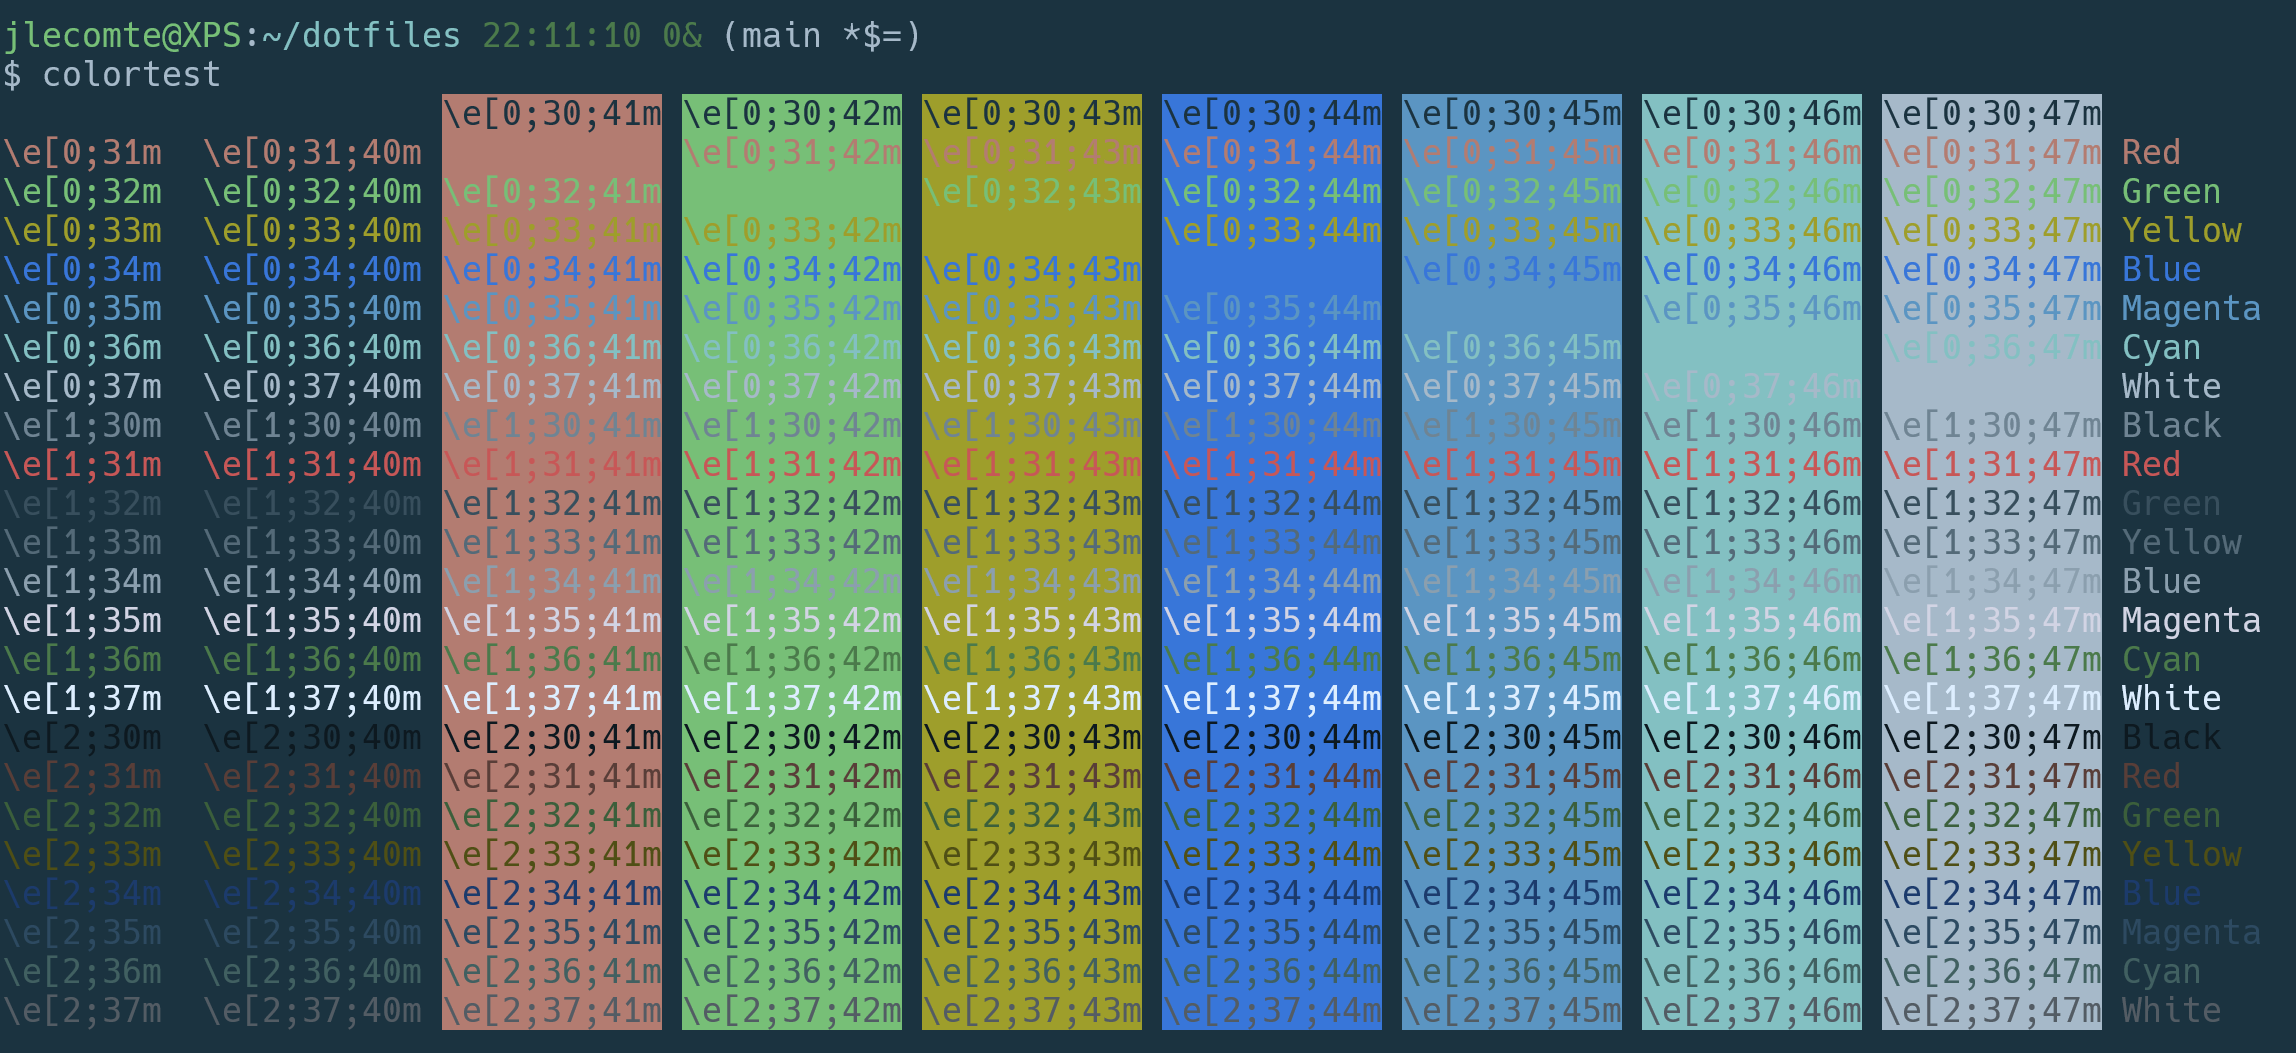
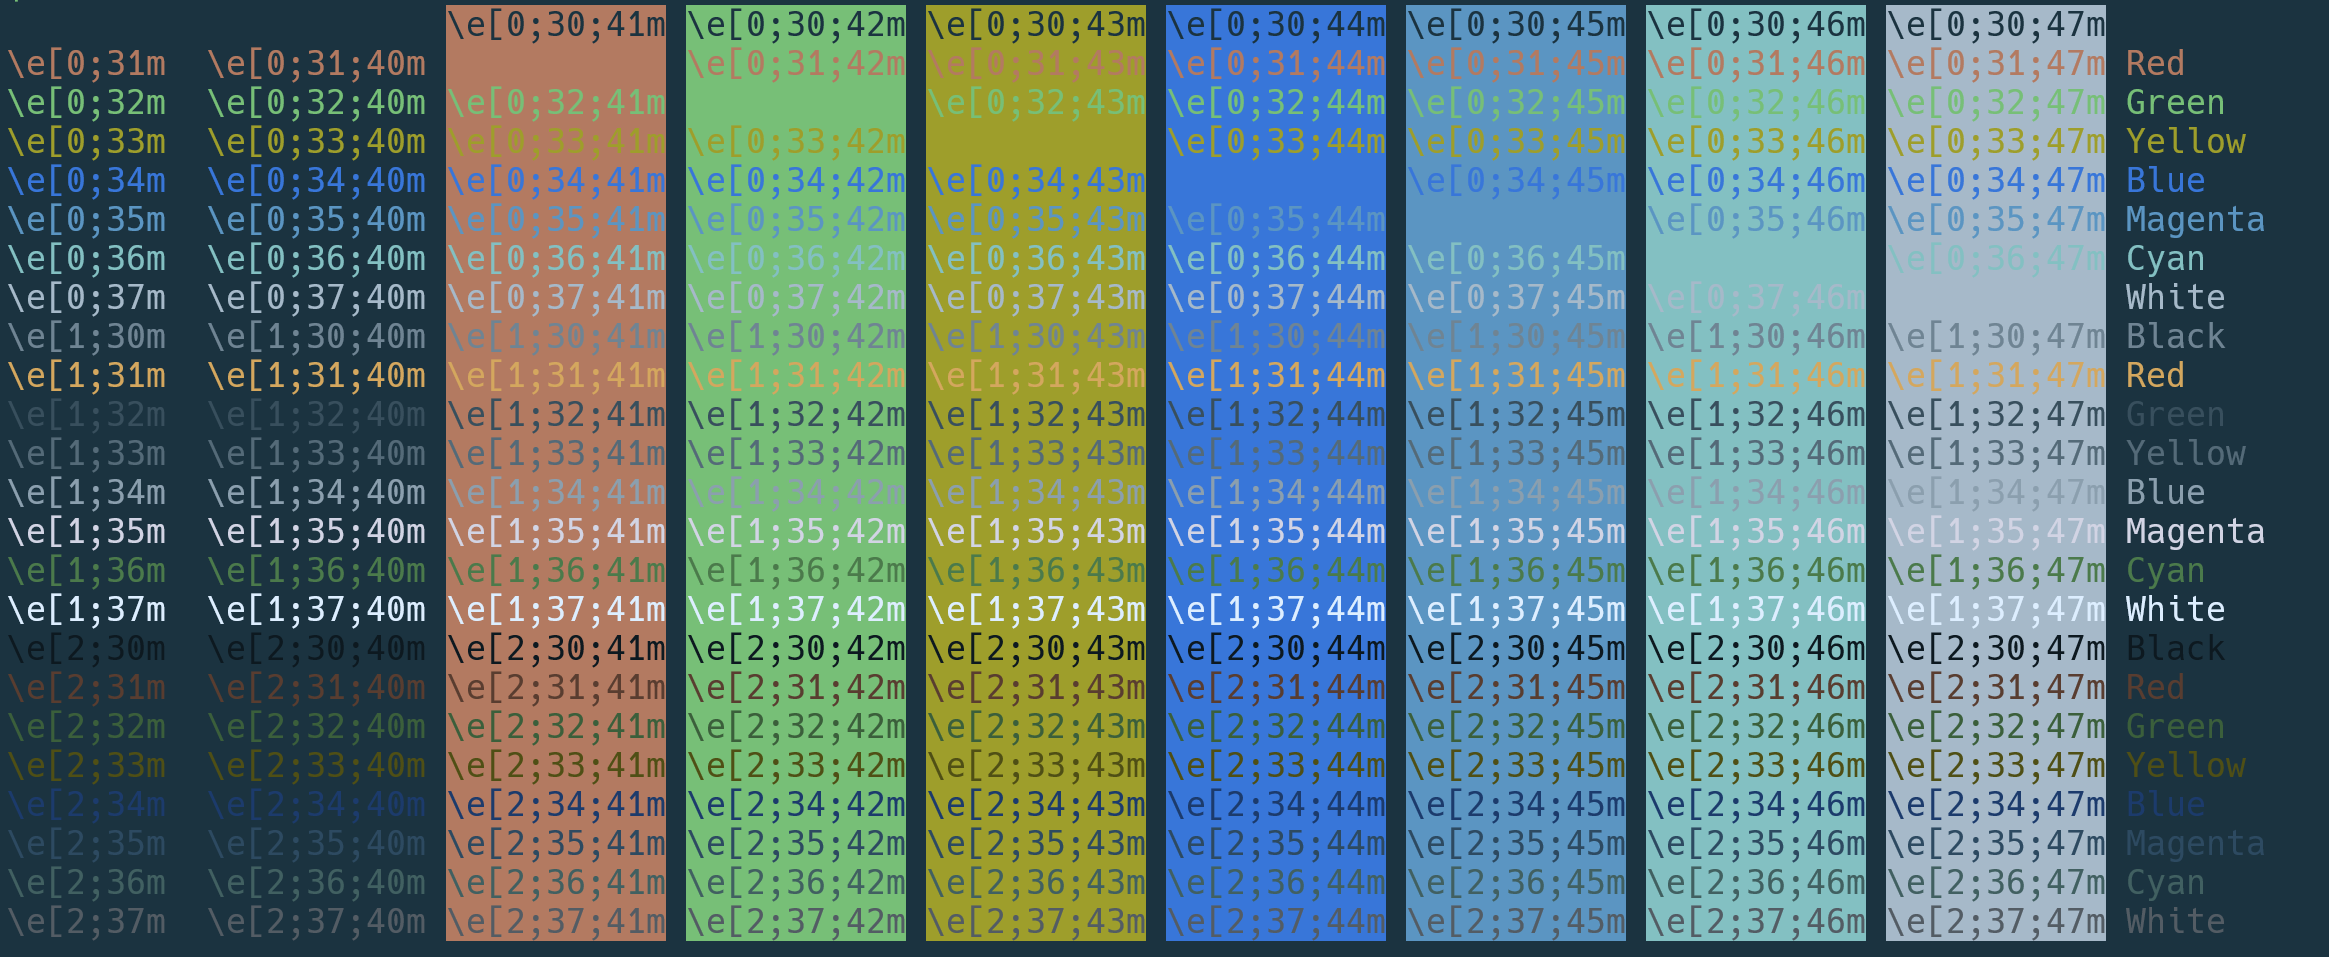
feat: show "brightred" as bright salmon
to try to resolve bright red on red lack of contrast.

diff --git a/README.md b/README.md
@@ -13,14 +13,6 @@ Screenshots below:
 
 ![colortest](colortest.png)
 
-## c++
-
-![c++](c++.png)
-
-## python
-
-![python](python.png)
-
 ## Credits
 
 Thanks to [ColorKit](https://colorkit.co/) for helping with the
